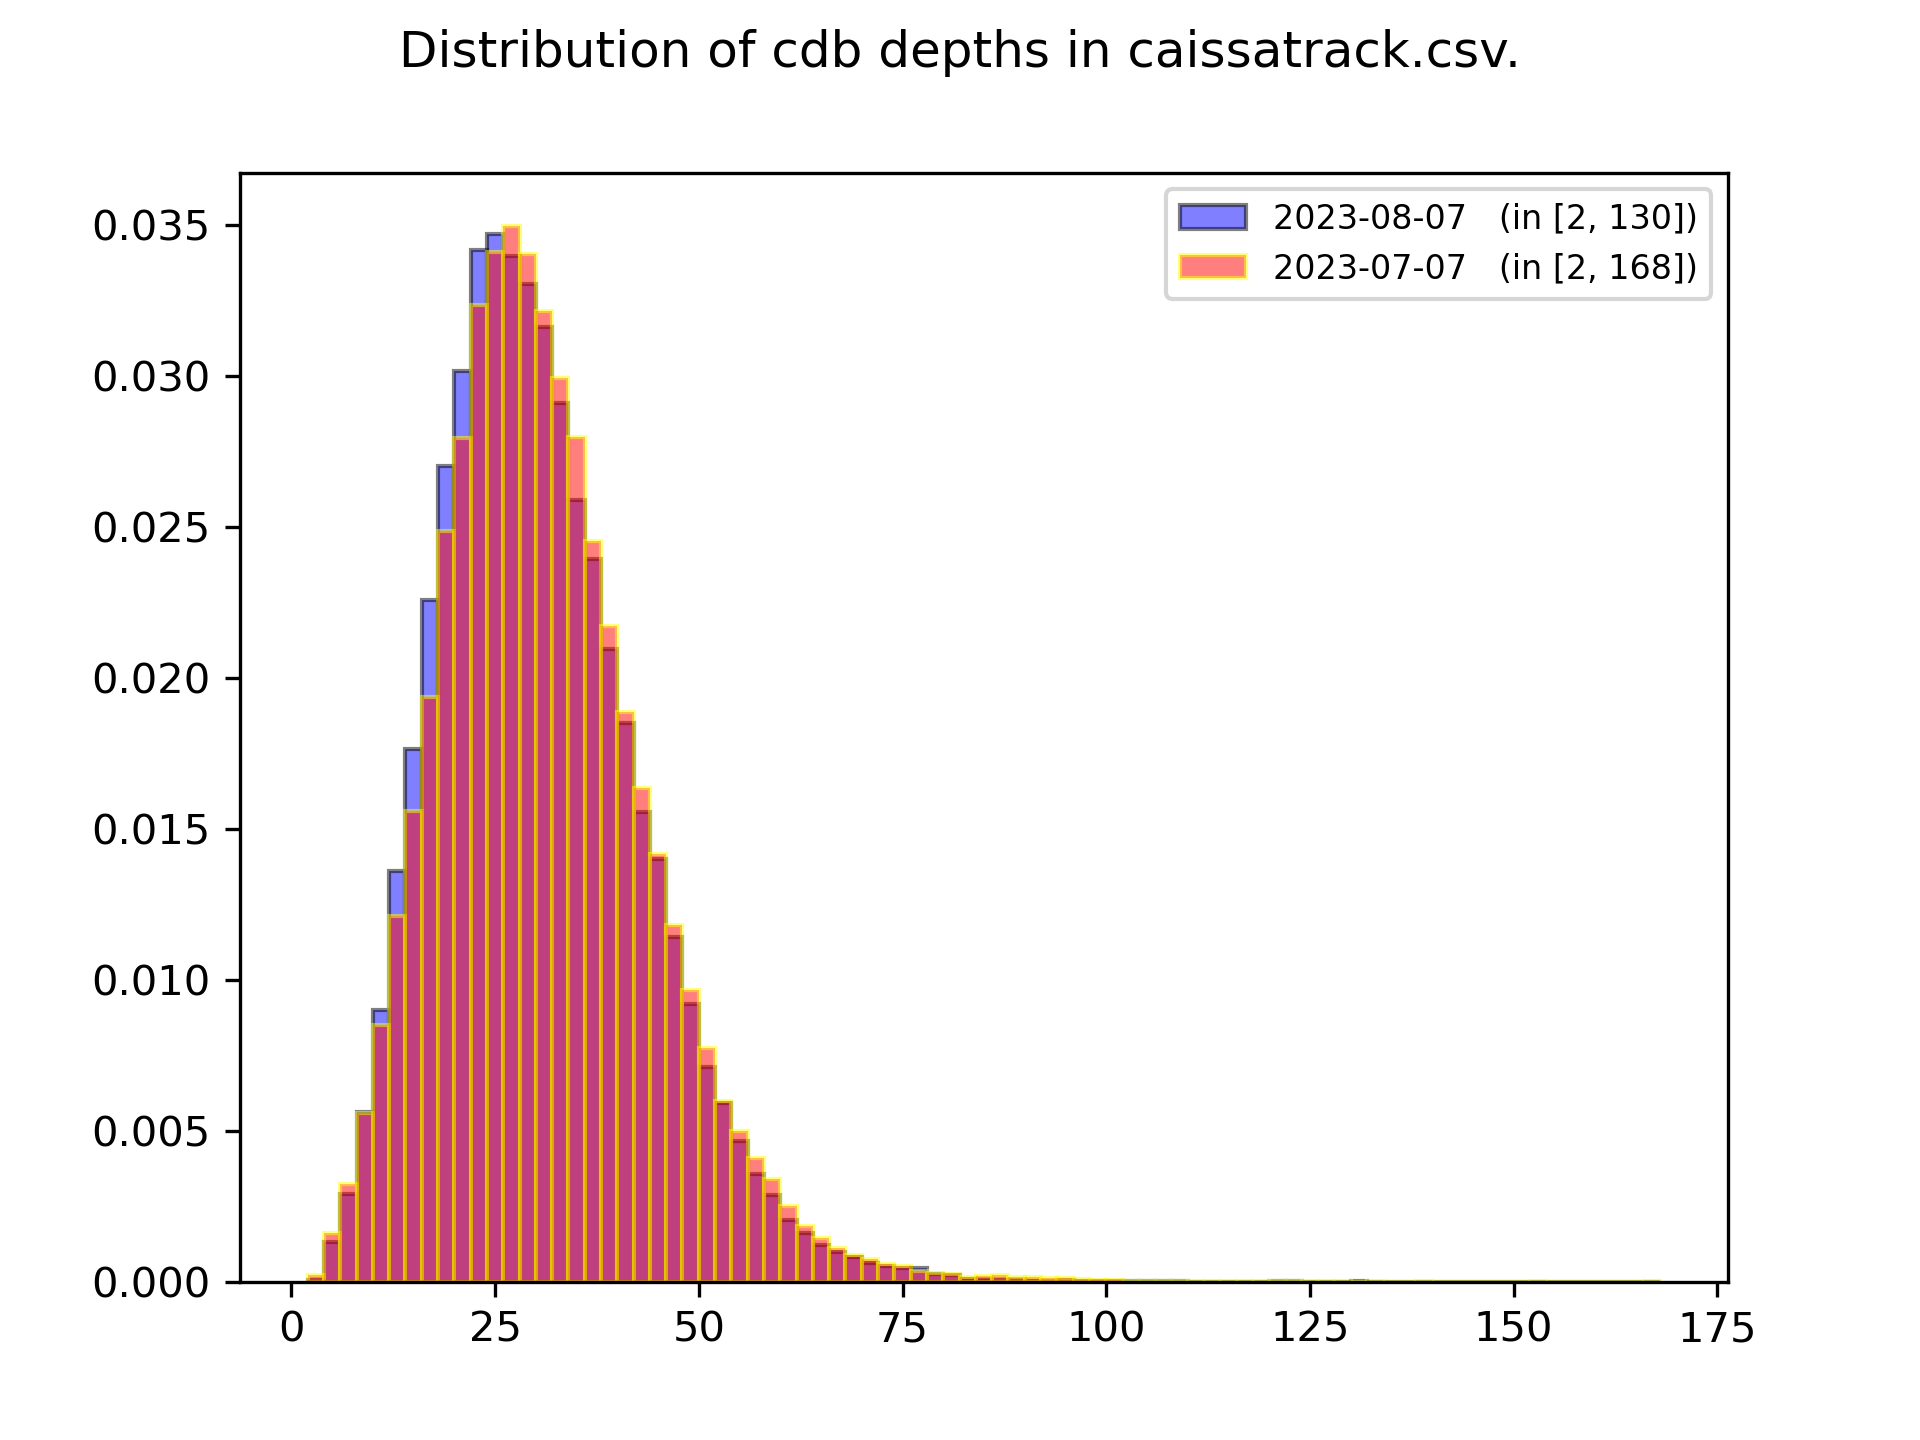
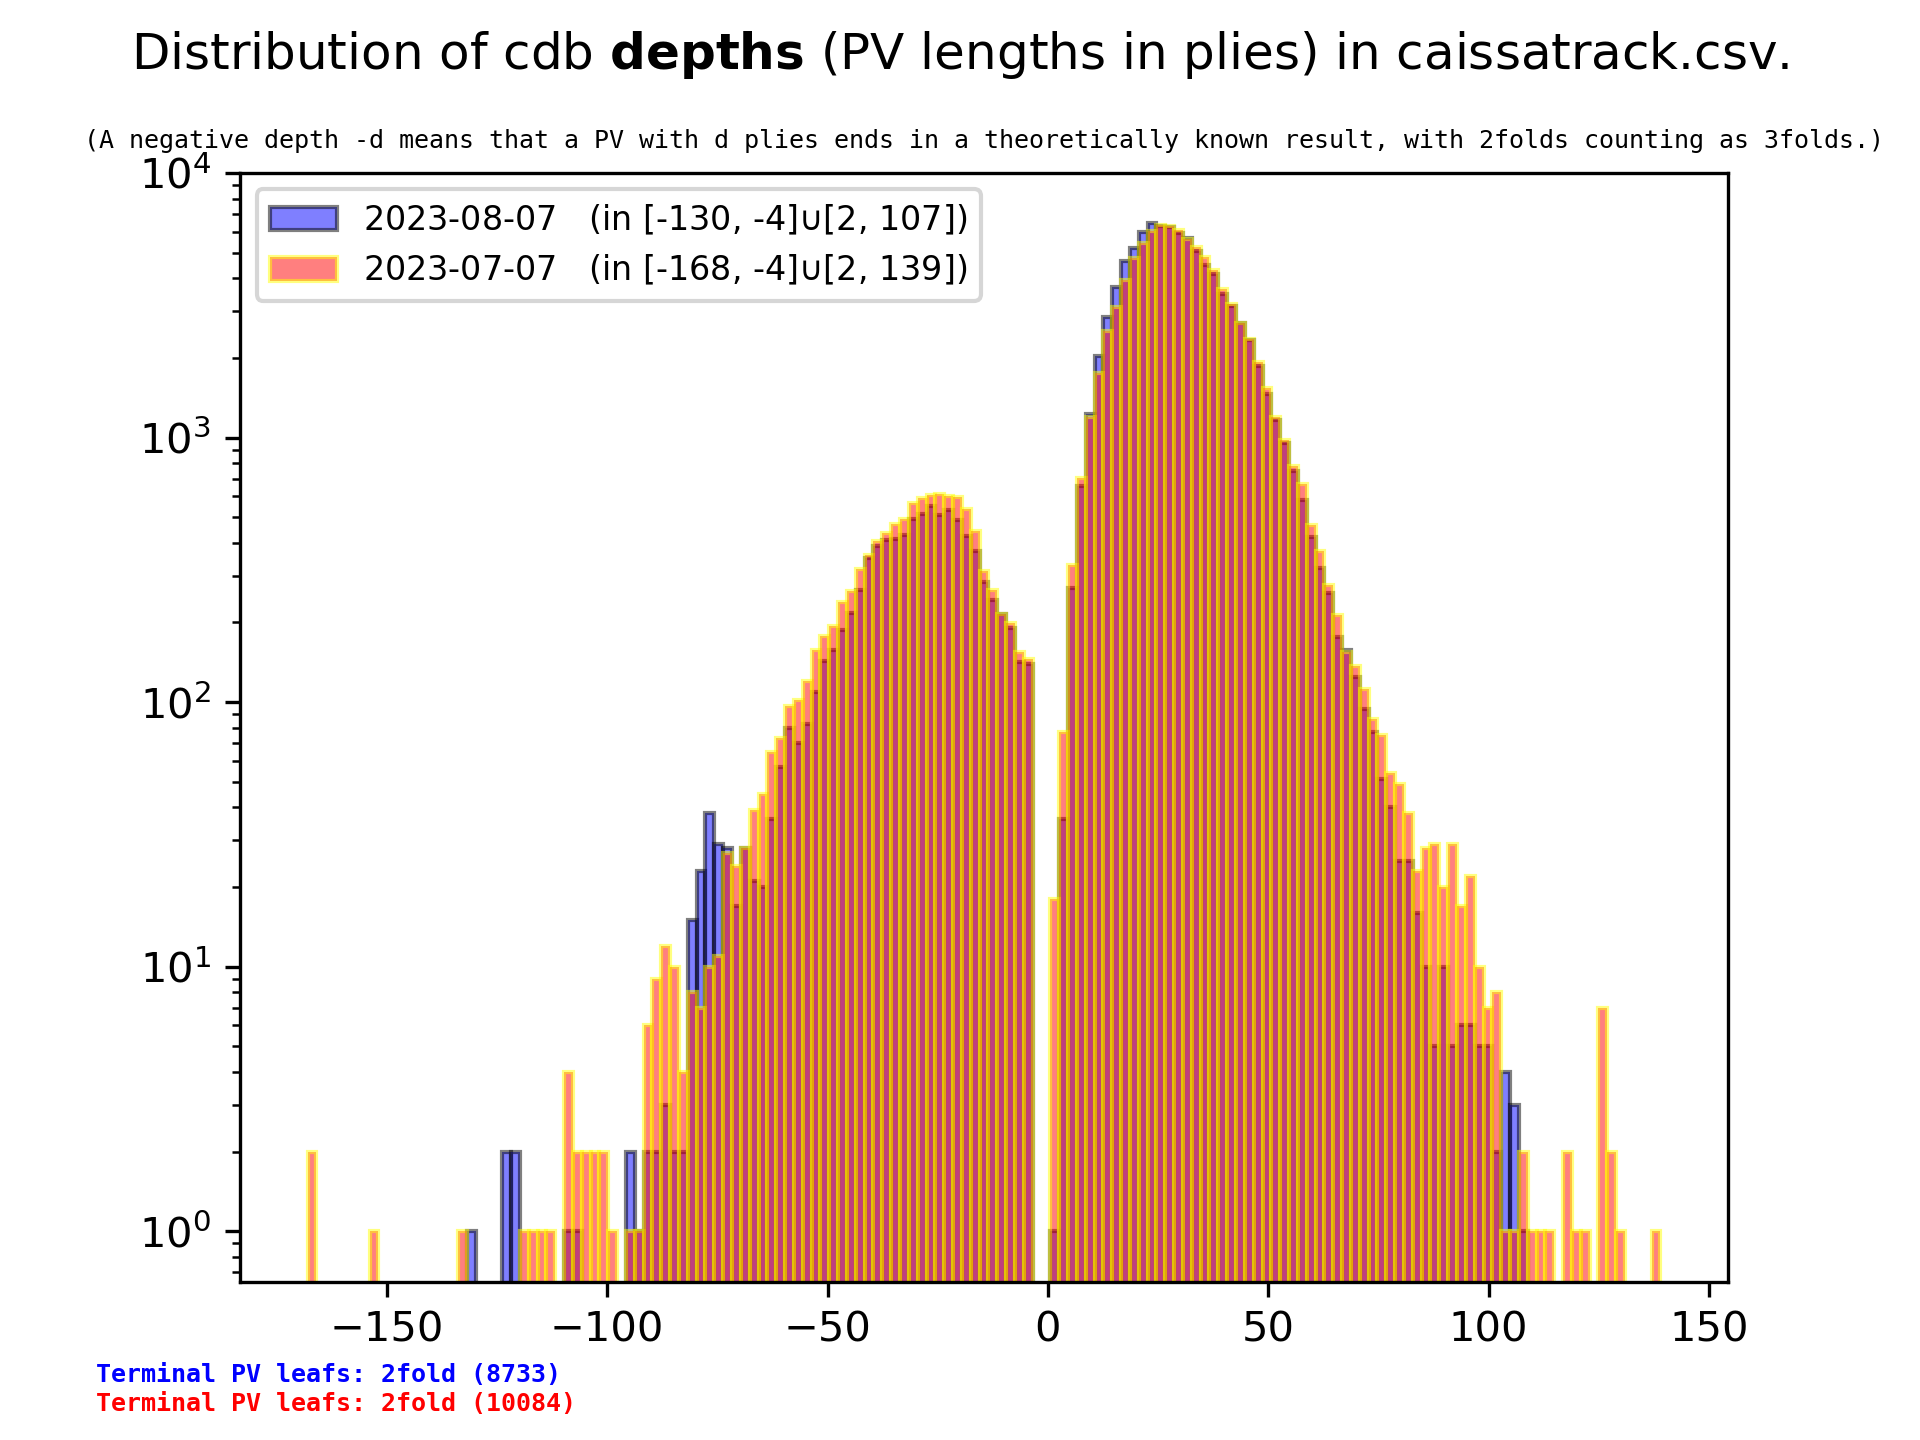
no more density plots

diff --git a/plotdata.py b/plotdata.py
@@ -78,7 +78,6 @@ class matedata:
                 listIdx,
                 range=(rangeMin, rangeMax),
                 bins=(rangeMax - rangeMin) // perBin,
-                density=True,
                 alpha=0.5,
                 color=color[Idx],
                 edgecolor=edgecolor[Idx],
